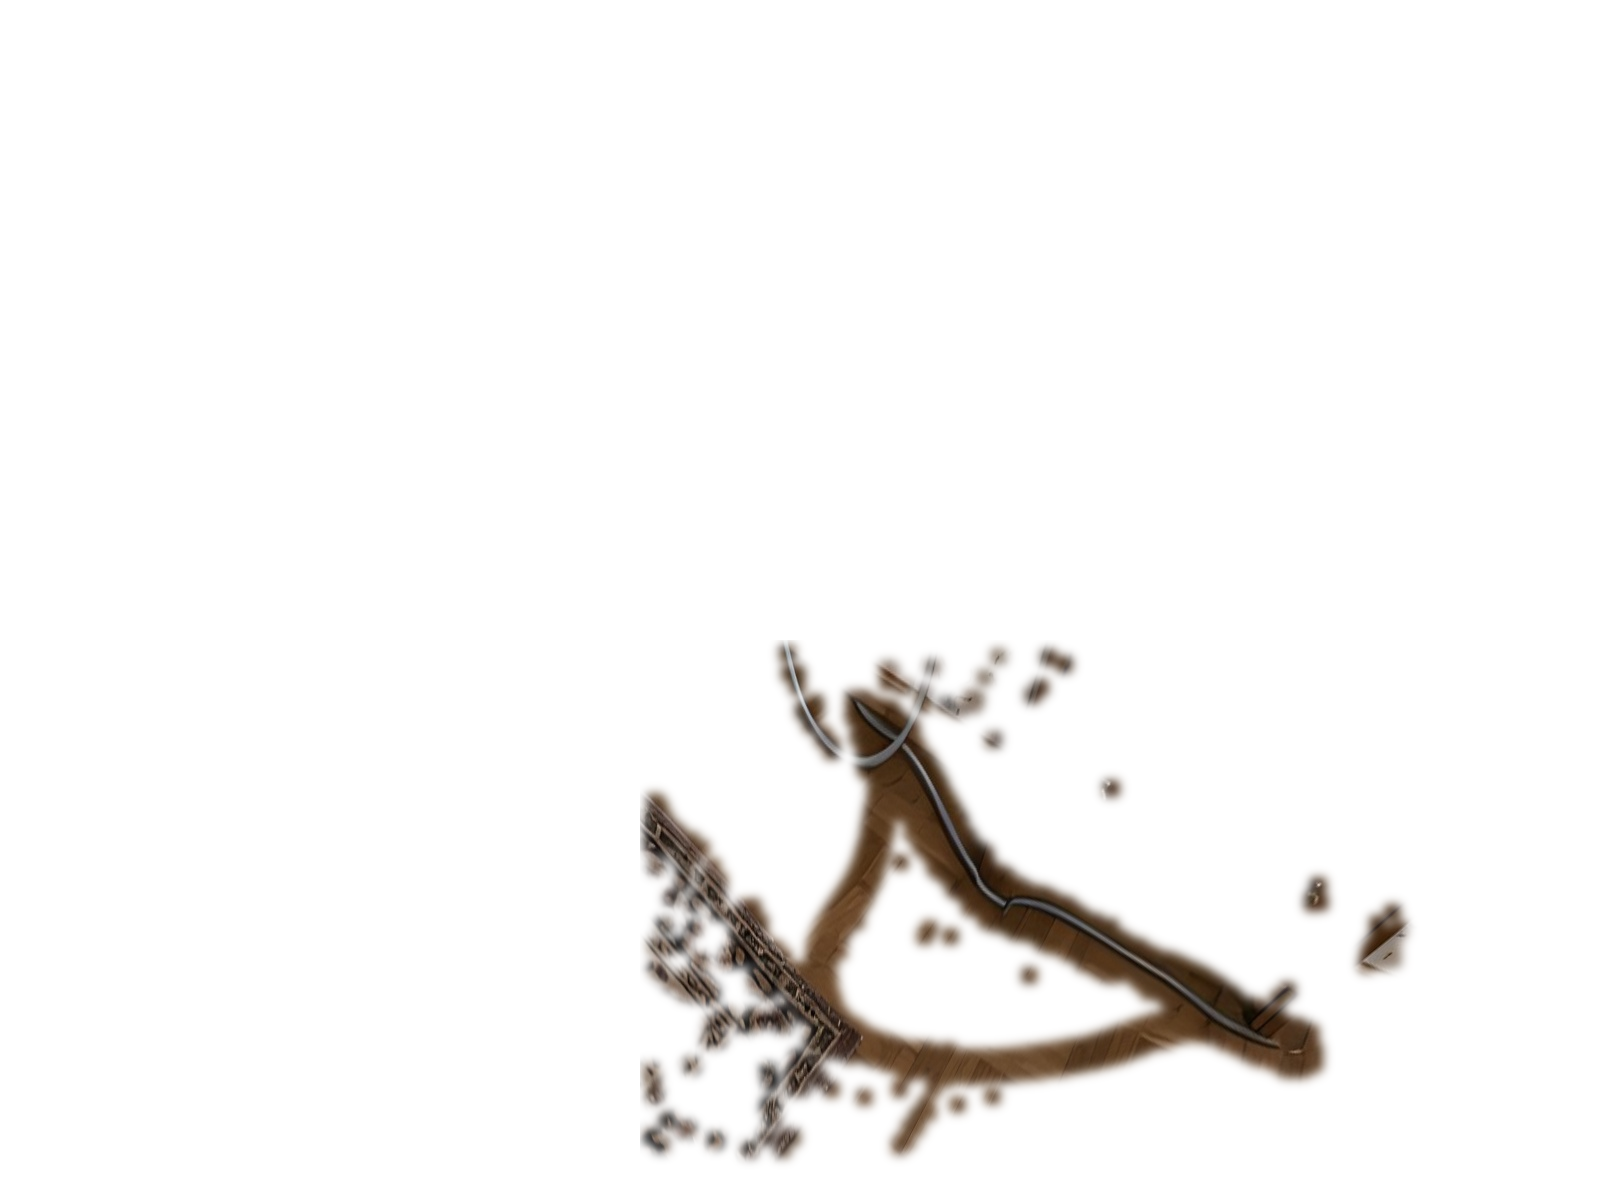
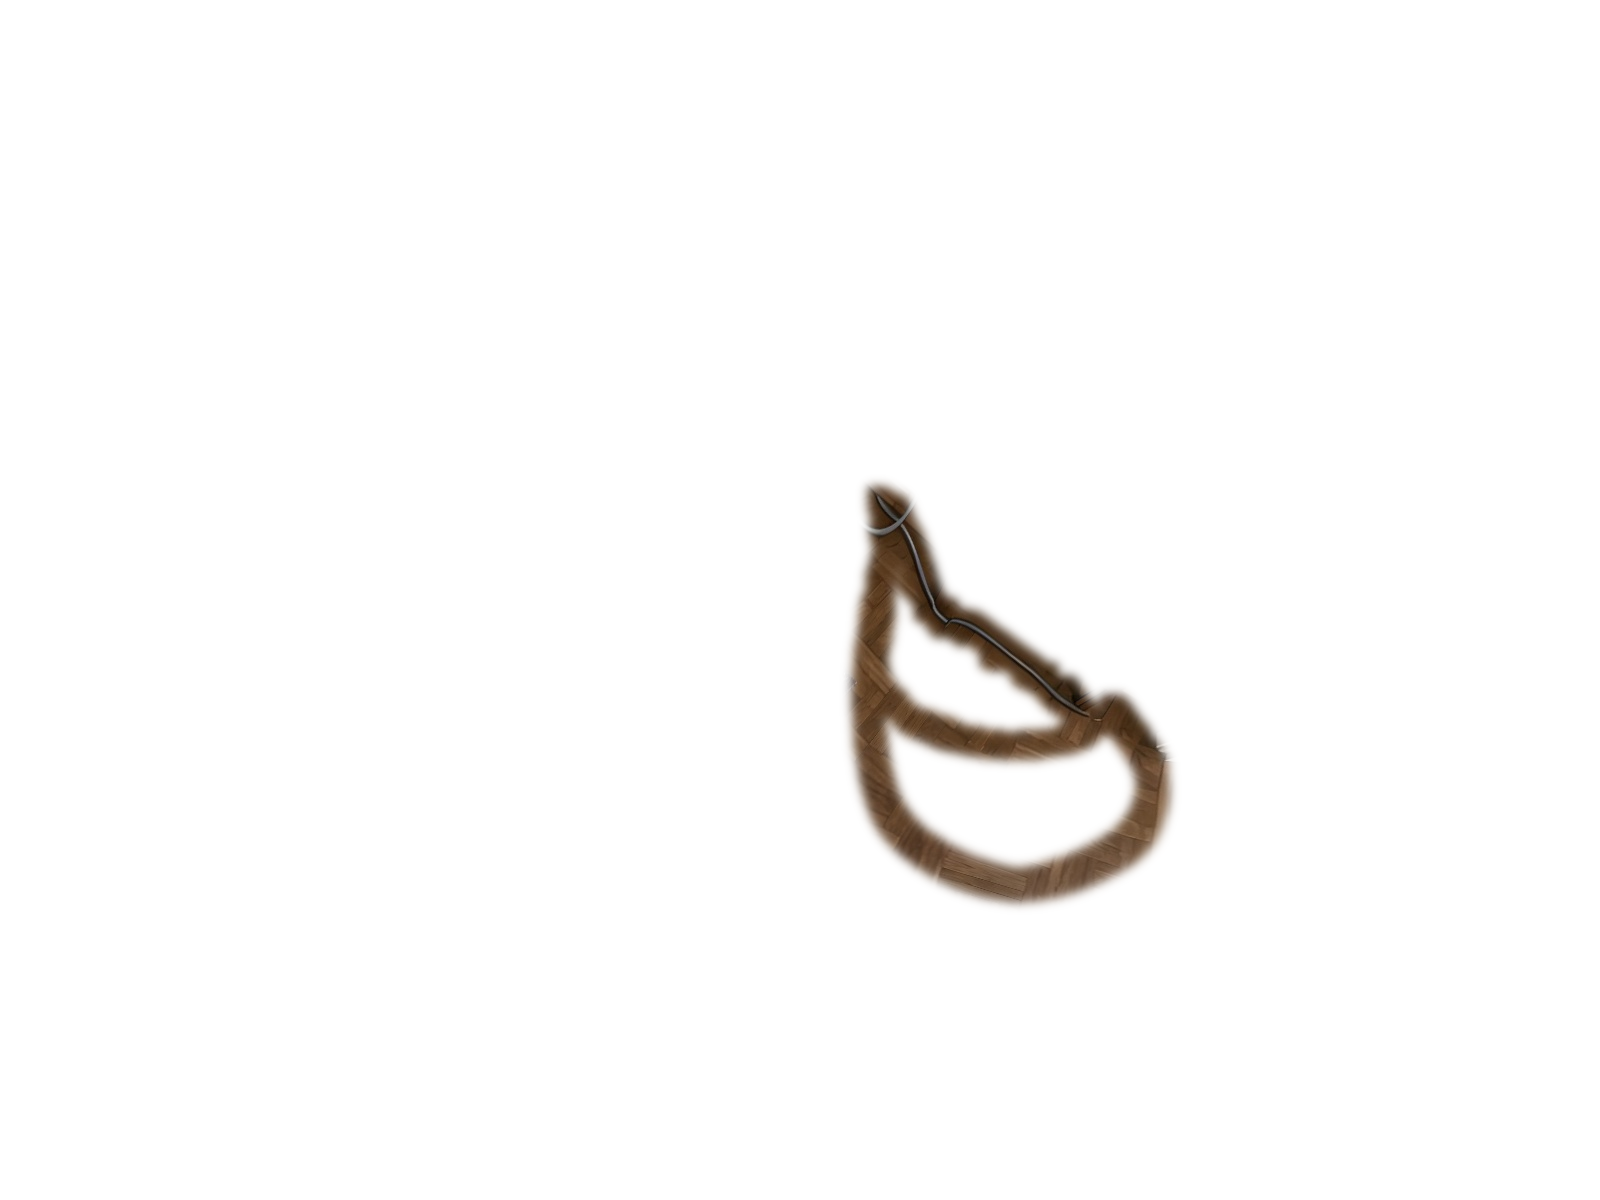
Flur: Kabel-Schlaufe liegt quer im Weg zum Wohnzimmer
Claude-Session: https://claude.ai/code/session_018xz3hR1CffNQymSRTgJLxV

Changed region(s): [[0.375, 0.4008, 0.8438, 0.9867], [0.8125, 0.7092, 0.9062, 0.8325]]

diff --git a/engel/spiel.html b/engel/spiel.html
@@ -65,7 +65,7 @@ const loadImg = src => new Promise((r, f) => { const i = new Image(); i.crossOri
 const rooms = {};
 async function buildRoom(name) {
   if (rooms[name]) return rooms[name];
-  const BILD_V = { bad: 3, wohnzimmer: 2, flur: 2 };
+  const BILD_V = { bad: 3, wohnzimmer: 2, flur: 3 };
   const [photo, depth] = await Promise.all([loadImg(name + '360.jpg?v=' + (BILD_V[name] || 1)), loadImg(name + '360_tiefe.png')]);
   const dc = document.createElement('canvas'); dc.width = depth.width; dc.height = depth.height;
   const dx = dc.getContext('2d'); dx.drawImage(depth, 0, 0); const dd = dx.getImageData(0, 0, dc.width, dc.height).data;
@@ -579,7 +579,7 @@ const FLUR_WEGE = [
   { u: 0.50, v: 0.74, label: 'Weiter in den Flur', go: 'flur2' },
   { u: 0.915, v: 0.80, label: 'Ins Wohnzimmer', go: 'wohnzimmer' }
 ];
-function zeigeKabel() { const f = rooms.flur; if (!f || f.kabelBild) return; f.kabelBild = addBild(f, { u: 0.66, v: 0.80, hfov: 80.08, aspect: 1, src: 'figur/flur_kabel_wand.png?v=1', cx: 960, cy: 540, w: 1600, h: 1200 }); }
+function zeigeKabel() { const f = rooms.flur; if (!f || f.kabelBild) return; f.kabelBild = addBild(f, { u: 0.64, v: 0.88, hfov: 110.07, aspect: 1, src: 'figur/flur_kabel_wand.png?v=2', cx: 960, cy: 540, w: 1600, h: 1200 }); }
 function zeigePantoffeln() {
   const flur = rooms.flur; if (!flur) return;
   if (!flur.pant) flur.pant = addBild(flur, { u: 0.491, v: 0.79, hfov: 50, aspect: 16 / 9, src: 'figur/flur_pantoffeln_weg.png', cx: 639, cy: 622.5, w: 1106, h: 709 });
